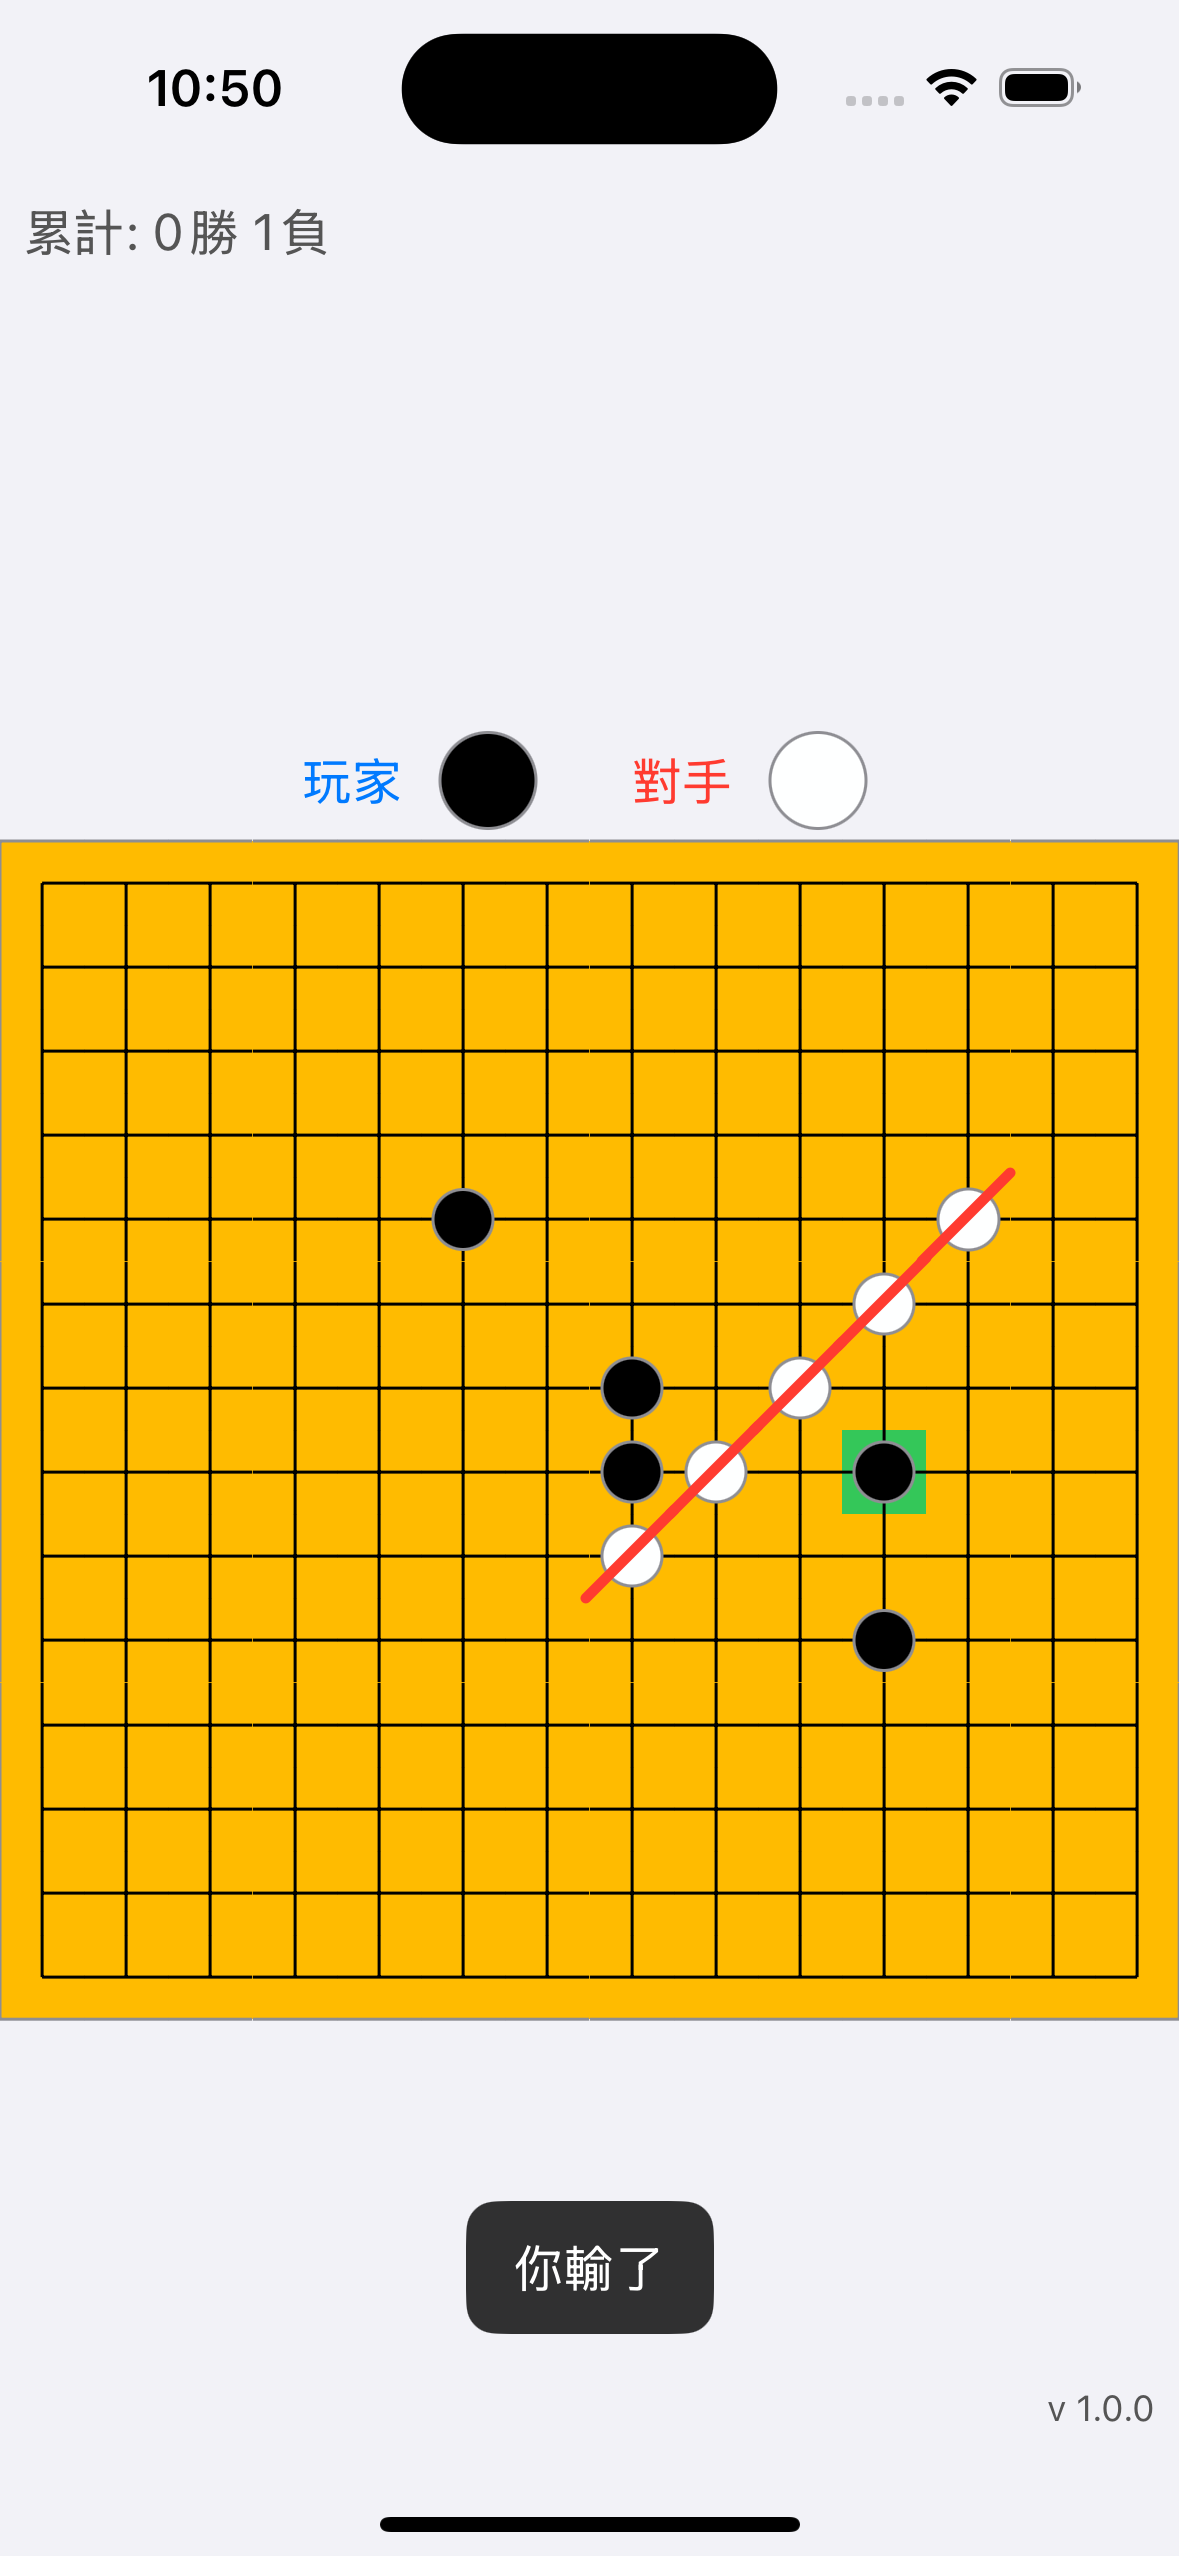
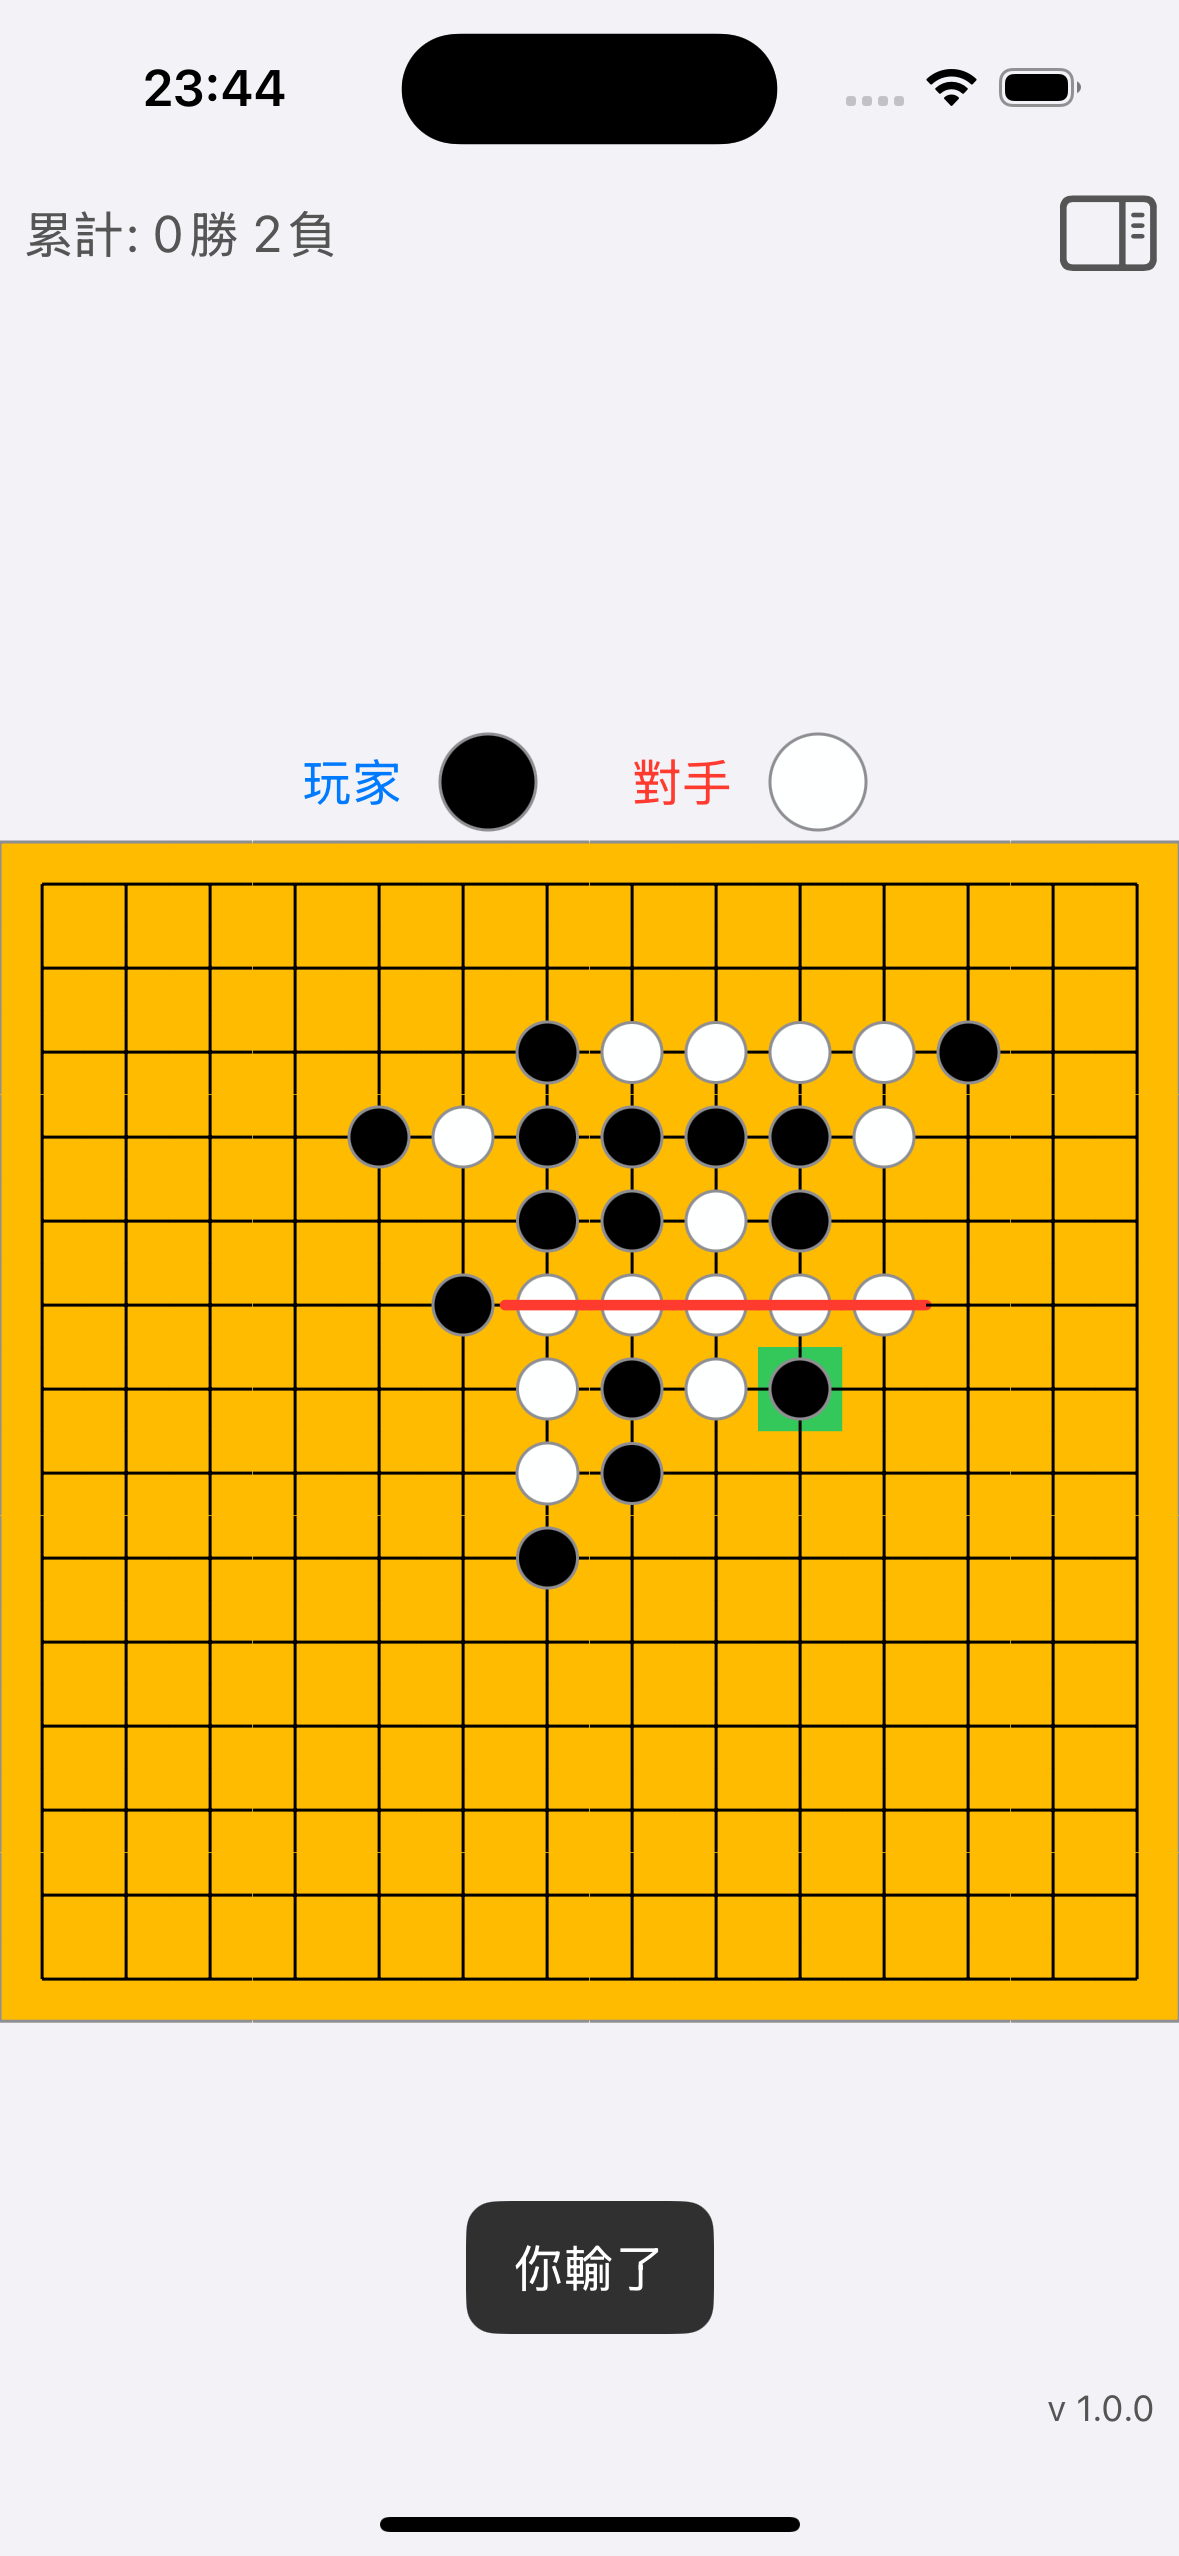
upadte ReadMe.md
add screen cut

diff --git a/ChessBoardView.swift b/ChessBoardView.swift
@@ -53,7 +53,18 @@ struct ChessBoardView: View, ChessStyleMediator, @preconcurrency GobangViewModel
                             .foregroundColor(.darkGray)
                             .font(.body)
                             .padding(8)
+                            
                             Spacer()
+                            
+                            Button(
+                                action: {
+                                    isSideMenuOpen.toggle()
+                                }){
+                               Image(systemName: "sidebar.right")
+                                    .tint(Color.darkGray)
+                                    .font(.title)
+                            }
+                            .padding(4)
                         }
                         
                         VStack(spacing: 0) {
@@ -156,7 +167,7 @@ struct ChessBoardView: View, ChessStyleMediator, @preconcurrency GobangViewModel
                 .frame(width: menuWidth)
                 .background(Color.white)
                 .offset(x: isSideMenuOpen ? 0 : menuWidth)
-                .shadow(radius: 5)
+                //.shadow(radius: 5)
                 .animation(.easeInOut, value: isSideMenuOpen)
                 .allowsHitTesting(self.gameStatus == .chessing) // 下子中才可以點擊
             }

diff --git a/SideMenuView.swift b/SideMenuView.swift
@@ -46,7 +46,7 @@ struct SideMenuView: View {
                     }
                 }
                 Rectangle()
-                    .fill(Color.lightGray)
+                    .fill(Color.systemGray5)
                     .frame(height: 1)
             }
             Spacer()

diff --git a/README.md b/README.md
@@ -6,3 +6,6 @@ screen cut:<br>
 
 <br><br>
 <img src="/rm_res/screen_cut2.png" alt="screen cut" width="50%" height="50%" align="bottom" />
+
+<br><br>
+<img src="/rm_res/screen_cut3.png" alt="screen cut" width="50%" height="50%" align="bottom" />
